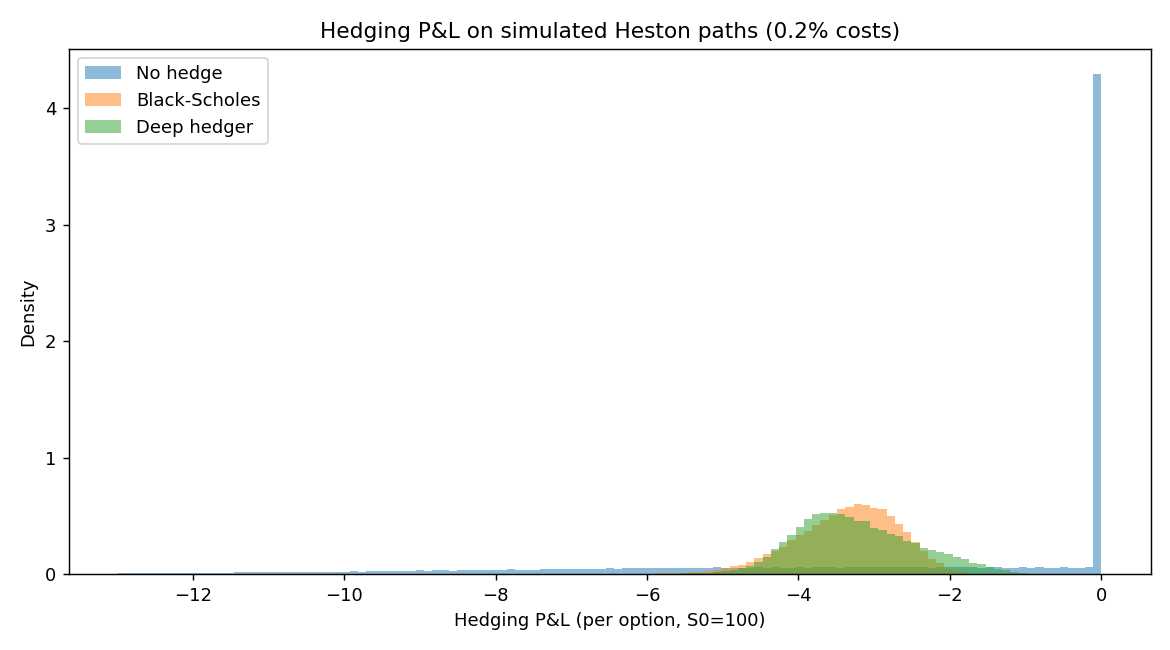
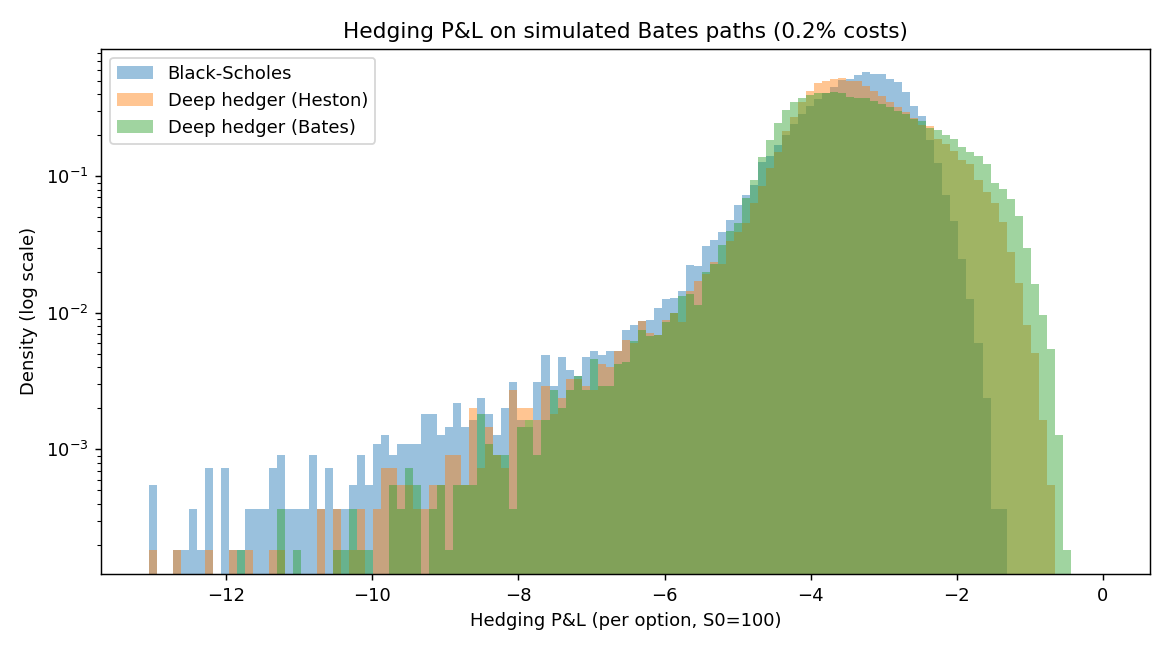
Deep hedging: add Bates jump model, calibrated from SPY, and compare hedgers

diff --git a/deep_hedging/main.py b/deep_hedging/main.py
@@ -1,9 +1,8 @@
 """Deep hedging pipeline:
-  1. load SPY + VIX and calibrate a Heston model to them
-  2. simulate training paths
-  3. train the neural hedger (CVaR objective, transaction costs)
-  4. compare with Black-Scholes delta hedging and no hedging
-       a) on fresh simulated Heston paths
+  1. load SPY + VIX and calibrate a Heston model, plus jumps (Bates model)
+  2. for each simulated world (Heston, Bates): simulate paths, train a hedger
+  3. compare both hedgers with Black-Scholes delta hedging and no hedging
+       a) on fresh simulated paths from the jump world (the harder one)
        b) on REAL historical SPY paths (sliding 30-day windows)
 """
 from pathlib import Path
@@ -13,15 +12,15 @@ matplotlib.use("Agg")
 import matplotlib.pyplot as plt
 import numpy as np
 import torch
+from scipy.stats import norm
 
-from dh.calibrate import load_market, fit_heston
+from dh.calibrate import load_market, fit_heston, fit_jumps
 from dh.hedging import (DeepHedger, train, agent_deltas, hedge_pnl, bs_delta,
                         bs_price, risk_stats)
 from dh.sim import heston
 
 OUT = Path(__file__).parent / "outputs"
 OUT.mkdir(exist_ok=True)
-torch.manual_seed(0)
 
 S0, K = 100.0, 100.0            # at-the-money call
 N_STEPS = 30                    # daily hedging, 30 trading days
@@ -36,18 +35,20 @@ def section(t):
 
 
 def table(results):
-    print(f"{'strategy':<16}{'mean':>9}{'std':>9}{'VaR95':>9}{'CVaR95':>9}")
+    print(f"{'strategy':<22}{'mean':>9}{'std':>9}{'VaR95':>9}{'CVaR95':>9}")
     for name, pnl in results.items():
         r = risk_stats(pnl, ALPHA)
-        print(f"{name:<16}{r['mean']:>9.3f}{r['std']:>9.3f}{r['VaR']:>9.3f}{r['CVaR']:>9.3f}")
+        print(f"{name:<22}{r['mean']:>9.3f}{r['std']:>9.3f}{r['VaR']:>9.3f}{r['CVaR']:>9.3f}")
 
 
-def compare(S, v, model):
-    return {
+def compare(S, v, models):
+    res = {
         "No hedge": hedge_pnl(S, np.zeros((len(S), N_STEPS)), K, COST),
         "Black-Scholes": hedge_pnl(S, bs_delta(S, v, T, K, N_STEPS), K, COST),
-        "Deep hedger": hedge_pnl(S, agent_deltas(model, S, v, T, K), K, COST),
     }
+    for name, m in models.items():
+        res[name] = hedge_pnl(S, agent_deltas(m, S, v, T, K), K, COST)
+    return res
 
 
 def hist(results, title, fname):
@@ -55,71 +56,78 @@ def hist(results, title, fname):
     lo, hi = np.percentile(np.concatenate(list(results.values())), [0.5, 99.9])
     bins = np.linspace(lo, hi, 120)
     for name, pnl in results.items():
-        plt.hist(pnl, bins=bins, alpha=0.5, density=True, label=name)
-    plt.title(title); plt.xlabel("Hedging P&L (per option, S0=100)"); plt.ylabel("Density")
+        if name != "No hedge":
+            plt.hist(pnl, bins=bins, alpha=0.45, density=True, label=name)
+    plt.yscale("log")
+    plt.title(title); plt.xlabel("Hedging P&L (per option, S0=100)"); plt.ylabel("Density (log scale)")
     plt.legend(); plt.tight_layout(); plt.savefig(OUT / fname, dpi=130); plt.close()
 
 
 # 1. Data + calibration
-section("1. Market data and Heston calibration")
+section("1. Market data and calibration")
 mkt = load_market()
 print(f"SPY + VIX daily: {mkt.index[0].date()} -> {mkt.index[-1].date()}  ({len(mkt)} days)")
 params = fit_heston(mkt)
 params.v0 = params.theta          # train around typical, not today's, vol
-print(f"kappa={params.kappa:.2f}  theta={params.theta:.4f} (vol {np.sqrt(params.theta):.1%})  "
+print(f"Heston: kappa={params.kappa:.2f}  theta={params.theta:.4f} (vol {np.sqrt(params.theta):.1%})  "
       f"xi={params.xi:.2f}  rho={params.rho:.2f}")
+jumps = fit_jumps(mkt)
+print(f"Jumps:  {jumps.lam:.2f} per year, mean size {jumps.mu_j:+.1%}, std {jumps.sig_j:.1%}")
 
-# 2. Simulated training data
-section("2. Simulating Heston training paths")
-S_tr, v_tr = heston(S0, params, T, N_STEPS, N_TRAIN, seed=1)
-print(f"{N_TRAIN:,} paths x {N_STEPS} steps")
-
-# 3. Training
-section("3. Training the deep hedger (min CVaR, 0.2% costs)")
-model = DeepHedger()
-hist_loss = train(model, S_tr, v_tr, T, K, COST, alpha=ALPHA)
-print(f"Indifference price learned by agent: {model.w.item():.3f}   "
-      f"(Black-Scholes price: {bs_price(S0, K, T, np.sqrt(params.theta)):.3f})")
-plt.figure(figsize=(8, 4)); plt.plot(hist_loss)
-plt.title("Training loss (CVaR 95% of hedging loss)"); plt.xlabel("Epoch")
+# 2. Train one hedger per simulated world
+worlds = {"Deep hedger (Heston)": None, "Deep hedger (Bates)": jumps}
+models = {}
+for i, (name, jp) in enumerate(worlds.items()):
+    section(f"2.{i + 1} Training {name}")
+    torch.manual_seed(0)
+    S_tr, v_tr = heston(S0, params, T, N_STEPS, N_TRAIN, seed=1, jumps=jp)
+    model = DeepHedger()
+    loss = train(model, S_tr, v_tr, T, K, COST, alpha=ALPHA)
+    print(f"Indifference price: {model.w.item():.3f}   "
+          f"(Black-Scholes: {bs_price(S0, K, T, np.sqrt(params.theta)):.3f})")
+    plt.plot(loss, label=name)
+    models[name] = model
+plt.title("Training loss (CVaR 95% of hedging loss)"); plt.xlabel("Epoch"); plt.legend()
 plt.tight_layout(); plt.savefig(OUT / "training_loss.png", dpi=130); plt.close()
 
-# 4a. Out-of-sample simulated test
-section("4a. Test on NEW simulated Heston paths")
-S_te, v_te = heston(S0, params, T, N_STEPS, N_TEST, seed=2)
-sim_res = compare(S_te, v_te, model)
+# 3a. Simulated test in the jump world
+section("3a. Test on NEW simulated paths WITH jumps (Bates)")
+S_te, v_te = heston(S0, params, T, N_STEPS, N_TEST, seed=2, jumps=jumps)
+sim_res = compare(S_te, v_te, models)
 table(sim_res)
-hist(sim_res, "Hedging P&L on simulated Heston paths (0.2% costs)", "pnl_simulated.png")
+hist(sim_res, "Hedging P&L on simulated Bates paths (0.2% costs)", "pnl_simulated.png")
 
-# 4b. Real SPY backtest
-section("4b. Backtest on REAL SPY history (30-day windows, step 5 days)")
+# 3b. Real SPY backtest
+section("3b. Backtest on REAL SPY history (30-day windows, step 5 days)")
 spy, vix = mkt["spy"].values, (mkt["vix"].values / 100) ** 2
 starts = range(0, len(spy) - N_STEPS - 1, 5)
 S_real = np.array([spy[s:s + N_STEPS + 1] / spy[s] * S0 for s in starts])
 v_real = np.array([vix[s:s + N_STEPS + 1] for s in starts])
 print(f"{len(S_real):,} real windows")
-real_res = compare(S_real, v_real, model)
+real_res = compare(S_real, v_real, models)
 table(real_res)
 hist(real_res, "Hedging P&L on real SPY windows, 2005-today (0.2% costs)", "pnl_real_spy.png")
 
-# 5. What did the network learn? Hedge ratio vs moneyness, halfway to maturity
-section("5. Learned hedge vs Black-Scholes delta")
+# 4. What did the networks learn? Hedge ratio vs moneyness, halfway to maturity
+section("4. Learned hedge vs Black-Scholes delta")
 i = N_STEPS // 2
 grid = np.linspace(85, 115, 200)
 vol = np.sqrt(params.theta)
+plt.figure(figsize=(9, 5))
 with torch.no_grad():
-    for prev in (0.2, 0.8):
+    for name, m in models.items():
         x = torch.tensor(np.column_stack([np.full_like(grid, (N_STEPS - i) / N_STEPS),
                                           np.log(grid / K), np.full_like(grid, vol),
-                                          np.full_like(grid, prev)]), dtype=torch.float32)
-        plt.plot(grid, model.net(x).numpy(), label=f"Deep hedger (current position {prev})")
+                                          np.full_like(grid, 0.5)]), dtype=torch.float32)
+        plt.plot(grid, m.net(x).numpy(), label=name)
 tau = (N_STEPS - i) * T / N_STEPS
-from scipy.stats import norm
 d1 = (np.log(grid / K) + 0.5 * vol**2 * tau) / (vol * np.sqrt(tau))
 plt.plot(grid, norm.cdf(d1), "k--", label="Black-Scholes delta")
-plt.title("Hedge ratio halfway to maturity: the agent learns a no-trade band")
+plt.title("Hedge ratio halfway to maturity (current position 0.5)")
 plt.xlabel("Stock price"); plt.ylabel("Shares held"); plt.legend()
 plt.tight_layout(); plt.savefig(OUT / "learned_delta.png", dpi=130); plt.close()
 print("Plots saved to outputs/")
 
-torch.save(model.state_dict(), OUT / "deep_hedger.pt")
+for name, m in models.items():
+    tag = "heston" if "Heston" in name else "bates"
+    torch.save(m.state_dict(), OUT / f"deep_hedger_{tag}.pt")

diff --git a/deep_hedging/dh/sim.py b/deep_hedging/dh/sim.py
@@ -18,6 +18,13 @@ class HestonParams:
     mu: float = 0.0       # drift of the stock
 
 
+@dataclass
+class JumpParams:
+    lam: float = 1.0      # expected jumps per year
+    mu_j: float = -0.03   # mean log jump size
+    sig_j: float = 0.05   # std of log jump size
+
+
 def gbm(S0, sigma, T, n_steps, n_paths, mu=0.0, seed=None):
     rng = np.random.default_rng(seed)
     dt = T / n_steps
@@ -28,20 +35,29 @@ def gbm(S0, sigma, T, n_steps, n_paths, mu=0.0, seed=None):
     return S, v
 
 
-def heston(S0, p: HestonParams, T, n_steps, n_paths, substeps=10, seed=None):
+def heston(S0, p: HestonParams, T, n_steps, n_paths, substeps=10, seed=None,
+           jumps: "JumpParams | None" = None):
     """Heston model, Euler scheme with full truncation. Simulated on a finer grid
-    (substeps per hedging date) for accuracy, then sampled at hedging dates."""
+    (substeps per hedging date) for accuracy, then sampled at hedging dates.
+
+    With `jumps` this becomes the Bates model: Heston plus Merton-style jumps,
+    sudden moves that arrive at random (Poisson) with normally distributed
+    log size. The drift is compensated so jumps don't change the expected return."""
     rng = np.random.default_rng(seed)
     dt = T / (n_steps * substeps)
     S = np.empty((n_paths, n_steps + 1)); v = np.empty_like(S)
     s = np.full(n_paths, float(S0)); var = np.full(n_paths, p.v0)
     S[:, 0], v[:, 0] = s, var
+    comp = jumps.lam * (np.exp(jumps.mu_j + 0.5 * jumps.sig_j**2) - 1) if jumps else 0.0
     for i in range(n_steps):
         for _ in range(substeps):
             z1 = rng.standard_normal(n_paths)
             z2 = p.rho * z1 + np.sqrt(1 - p.rho**2) * rng.standard_normal(n_paths)
             vp = np.maximum(var, 0.0)
-            s = s * np.exp((p.mu - 0.5 * vp) * dt + np.sqrt(vp * dt) * z1)
+            s = s * np.exp((p.mu - comp - 0.5 * vp) * dt + np.sqrt(vp * dt) * z1)
+            if jumps:
+                n = rng.poisson(jumps.lam * dt, n_paths)
+                s *= np.exp(n * jumps.mu_j + np.sqrt(n) * jumps.sig_j * rng.standard_normal(n_paths))
             var = var + p.kappa * (p.theta - vp) * dt + p.xi * np.sqrt(vp * dt) * z2
         S[:, i + 1], v[:, i + 1] = s, np.maximum(var, 0.0)
     return S, v

diff --git a/deep_hedging/dh/calibrate.py b/deep_hedging/dh/calibrate.py
@@ -12,7 +12,7 @@ from pathlib import Path
 import numpy as np
 import pandas as pd
 
-from .sim import HestonParams
+from .sim import HestonParams, JumpParams
 
 DATA = Path(__file__).resolve().parent.parent / "data"
 
@@ -44,3 +44,13 @@ def fit_heston(df, dt=1 / 252) -> HestonParams:
     rho = np.corrcoef(ret, np.diff(v))[0, 1]
     return HestonParams(v0=float(v[-1]), kappa=float(kappa), theta=float(theta),
                         xi=float(xi), rho=float(rho))
+
+
+def fit_jumps(df, threshold=3.0) -> JumpParams:
+    """A day is a 'jump' when the SPY return is bigger than `threshold` times
+    the daily move the VIX predicted the day before."""
+    ret = np.diff(np.log(df["spy"].values))
+    expected = df["vix"].values[:-1] / 100 / np.sqrt(252)
+    j = ret[np.abs(ret / expected) > threshold]
+    years = len(ret) / 252
+    return JumpParams(lam=len(j) / years, mu_j=float(j.mean()), sig_j=float(j.std()))

diff --git a/deep_hedging/README.md b/deep_hedging/README.md
@@ -10,8 +10,8 @@ Based on Buehler, Gonon, Teichmann & Wood, *Deep Hedging* (Quantitative Finance,
 ## Pipeline
 1. **Data:** daily SPY and VIX since 2005 (yfinance, cached to `data/`).
 2. **Calibration:** Heston stochastic volatility model, fitted to the VIX time series
-   (κ = 9.8, long-run vol 21%, vol-of-vol 0.65, ρ = −0.75).
-3. **Simulation:** 200k Heston paths, 30 daily hedging dates.
+   (κ = 9.8, long-run vol 21%, vol-of-vol 0.65, ρ = −0.75), plus jumps for the Bates model.
+3. **Simulation:** 200k paths per world (Heston, and Bates with jumps), 30 daily hedging dates.
 4. **Training:** a feed-forward network maps (time left, log-moneyness, current vol, current
    position) to the number of shares held. The loss is CVaR of the hedging loss, via the
    Rockafellar–Uryasev formulation. The learned threshold is the seller's indifference price.
@@ -20,39 +20,49 @@ Based on Buehler, Gonon, Teichmann & Wood, *Deep Hedging* (Quantitative Finance,
 
 ## Results (P&L per option sold, S0 = 100, premium excluded)
 
-**Simulated Heston test set (50k paths)**
+Two hedgers are trained: one in a Heston world (smooth moves only) and one in a **Bates**
+world (Heston plus sudden jumps). Jumps are calibrated from SPY: about 1 per year, mean −3.0%,
+std 5.6%. A "jump" is a day whose move is more than 3× what the VIX predicted.
+
+**Simulated test set with jumps (50k Bates paths)**
 | Strategy | Mean | Std | VaR 95 | CVaR 95 |
 |---|---|---|---|---|
-| No hedge | −2.84 | 3.69 | 10.39 | 12.46 |
-| Black-Scholes delta | −3.37 | 0.69 | 4.60 | 5.01 |
-| **Deep hedger** | **−3.24** | 0.79 | **4.40** | **4.74** |
+| No hedge | −2.96 | 3.87 | 10.82 | 13.18 |
+| Black-Scholes delta | −3.49 | 0.90 | 4.91 | 6.02 |
+| Deep hedger (Heston) | −3.36 | 0.91 | **4.65** | 5.52 |
+| **Deep hedger (Bates)** | **−3.32** | 1.01 | 4.72 | **5.45** |
 
 **Real SPY, 2005–2026 (1,096 windows)**
 | Strategy | Mean | Std | VaR 95 | CVaR 95 |
 |---|---|---|---|---|
 | No hedge | −2.76 | 3.19 | 8.57 | 11.71 |
 | Black-Scholes delta | −2.66 | 1.19 | 4.62 | 6.45 |
-| **Deep hedger** | **−2.57** | 1.36 | 4.61 | 6.46 |
+| Deep hedger (Heston) | −2.57 | 1.36 | 4.61 | 6.46 |
+| **Deep hedger (Bates)** | **−2.55** | 1.40 | **4.27** | **6.42** |
 
 ### Interpretation
-- In the simulated world it was trained for, the agent cuts tail risk (CVaR) by about 5% and
-  trading costs by about 4% compared with Black-Scholes. It does this by **trading less**:
-  its hedge curve is flatter, and it depends on the current position, a soft "no-trade band".
-- On real data, it keeps its cost advantage (the best mean P&L) but its tail risk only
-  **ties** Black-Scholes. This is the simulation-to-reality gap: real SPY has jumps and
-  crashes that the Heston model underestimates.
-- Its standard deviation is slightly higher on purpose: it minimises CVaR, not variance.
+- Both hedgers save money by **trading less** than Black-Scholes. Their hedge is flatter
+  (see `learned_delta.png`), which cuts transaction costs.
+- On simulated jump paths, both beat Black-Scholes on tail risk (CVaR −9% to −10%).
+- On real SPY, adding jumps to training gives the **best result on every measure except
+  std**: VaR improves by 8% over Black-Scholes. CVaR improves only slightly; the
+  Heston-trained hedger just ties Black-Scholes there.
+- **Caveat:** the real test has about 55 tail windows, and the windows overlap, so small
+  CVaR differences are within noise. The gap left on real data suggests jumps alone
+  don't explain real crashes: volatility clustering and regime changes matter too.
+- Std is slightly higher on purpose: the agent minimises CVaR, not variance.
 
 ## Run
 ```bash
 pip install numpy scipy pandas matplotlib torch "yfinance>=0.2.50"
-python main.py      # about 3 min on a laptop CPU
+python main.py      # about 6 min on a laptop CPU
 ```
 Outputs: `outputs/pnl_simulated.png`, `pnl_real_spy.png`, `learned_delta.png`,
-`training_loss.png`, `deep_hedger.pt`.
+`training_loss.png`, `deep_hedger_heston.pt`, `deep_hedger_bates.pt`.
 
 ## Next steps
-- Add jumps (Bates model) to close the gap on real data
+- Test on real traded options (Deribit BTC options)
+- Generative model (GAN or diffusion) trained on real paths as the simulator
 - Recurrent network (LSTM) policy, with the VIX term structure as an extra input
 - Hedge with options as well as stock (vega hedging)
 - Compare different risk preferences: entropic risk vs CVaR vs variance
